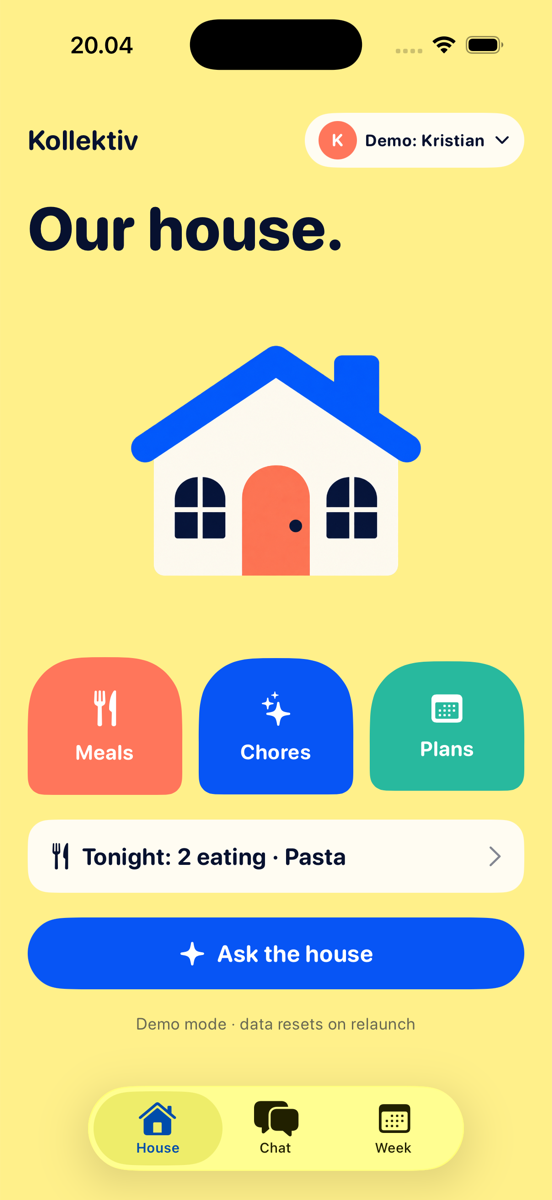
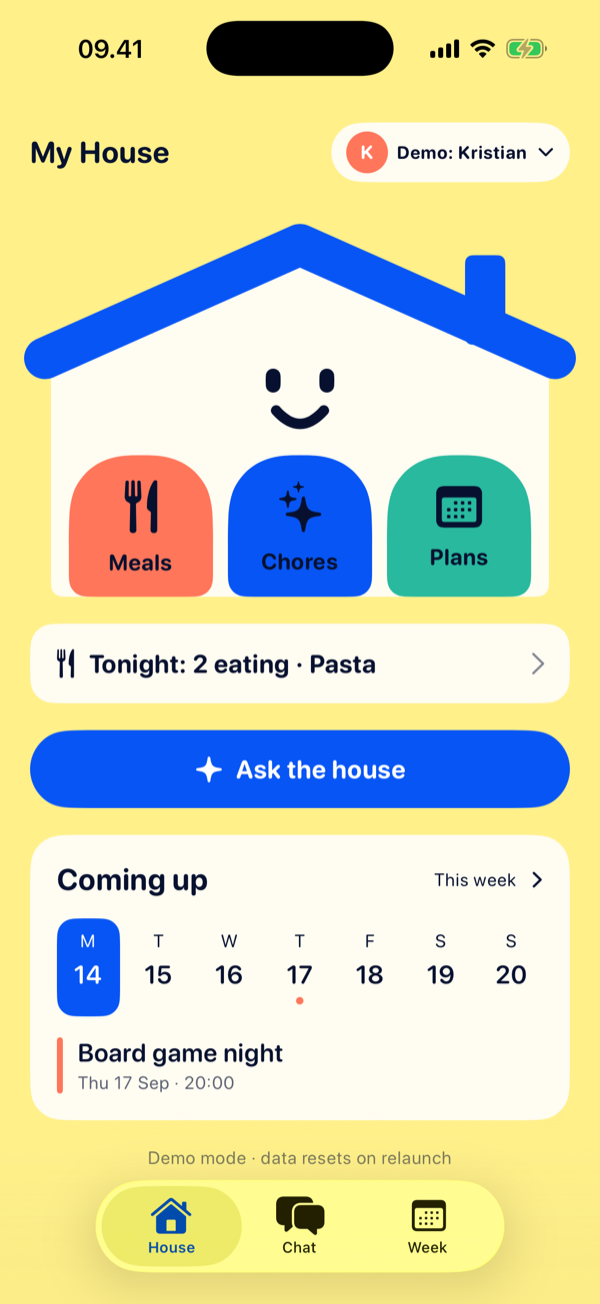
feat(demo): add launch-argument screenshot scenarios and capture README gallery

diff --git a/ios/Kollektiv/App/ScreenshotScenario.swift b/ios/Kollektiv/App/ScreenshotScenario.swift
@@ -1,0 +1,110 @@
+import Foundation
+
+/// Launch-argument driven demo state, used only to capture README screenshots.
+/// Inert unless one of the recognised arguments is present.
+///
+///   -scenario journeyA-pending|journeyA-accepted|journeyC
+///   -tab house|chat|week   -person kristian|sam|mia   -sheet today   -chores
+@MainActor
+enum ScreenshotScenario {
+    private static func value(_ flag: String) -> String? {
+        let args = CommandLine.arguments
+        guard let i = args.firstIndex(of: flag), i + 1 < args.count else { return nil }
+        return args[i + 1]
+    }
+    private static func has(_ flag: String) -> Bool { CommandLine.arguments.contains(flag) }
+
+    private static func monthName(_ date: LocalDate) -> String {
+        let f = DateFormatter()
+        f.calendar = LocalDate.calendar; f.timeZone = LocalDate.timeZone
+        f.locale = LocalDate.calendar.locale; f.dateFormat = "MMMM"
+        return f.string(from: date.noon)
+    }
+
+    /// Upcoming date with the given Foundation weekday (1 = Sunday ... 7 = Saturday).
+    private static func upcoming(_ weekday: Int, from today: LocalDate, strictlyAfter: Bool = false) -> LocalDate {
+        var offset = (weekday - today.weekday + 7) % 7
+        if offset == 0 && strictlyAfter { offset = 7 }
+        return today.adding(days: offset)
+    }
+
+    static func apply(store: HouseStore, appState: AppState) {
+        let scenario = value("-scenario")
+        let tab = value("-tab")
+        let person = value("-person")
+        guard scenario != nil || tab != nil || person != nil || has("-sheet") || has("-chores") else { return }
+
+        store.currentMemberID = person ?? (scenario == "journeyC" ? "kristian" : scenario != nil ? "sam" : store.currentMemberID)
+        switch tab {
+        case "chat": appState.selectedTab = .chat
+        case "week": appState.selectedTab = .week
+        case "house": appState.selectedTab = .house
+        default: break
+        }
+        // Posted after launch so the chat's scroll-to-latest fires and the sheet/push have a
+        // live view hierarchy to attach to.
+        let wantsSheet = value("-sheet") == "today", wantsChores = has("-chores")
+        DispatchQueue.main.asyncAfter(deadline: .now() + 0.5) {
+            switch scenario {
+            case "journeyA-pending": journeyA(store: store, accepted: false)
+            case "journeyA-accepted": journeyA(store: store, accepted: true)
+            case "journeyC": journeyC(store: store)
+            default: break
+            }
+            DispatchQueue.main.asyncAfter(deadline: .now() + 0.4) {
+                if wantsSheet { appState.presentedDinnerDate = store.today }
+                if wantsChores { appState.showChores = true }
+            }
+        }
+    }
+
+    private static func journeyA(store: HouseStore, accepted: Bool) {
+        let today = store.today
+        let friday = upcoming(6, from: today)
+        let saturday = friday.adding(days: 1), sunday = friday.adding(days: 2)
+        guard let kitchen = store.occurrences.first(where: { $0.name == "Kitchen" && $0.date == saturday }) else { return }
+        let source = store.postMessage(
+            sender: .member("kristian"),
+            body: "@House mark me away for dinner Fri–Sun and ask someone to take my Saturday kitchen clean",
+            mentionsHouse: true)
+        let task = store.createTask(initiator: "kristian", sourceMessageID: source.id)
+        do {
+            try store.setAttendance(actor: "kristian", dates: [friday, saturday, sunday], status: .away)
+            let proposal = try store.createCoverProposal(actor: "kristian", occurrenceID: kitchen.id, taskID: task.id)
+            let month = monthName(saturday)
+            store.postMessage(sender: .house, body: """
+            You're marked away for dinner Friday \(friday.day), Saturday \(saturday.day) and Sunday \(sunday.day) \(month). \
+            A cover request has been posted for your Saturday \(saturday.day) \(month) kitchen chore — it's still yours \
+            until Sam or Mia volunteers to take it.
+            """, taskID: task.id)
+            store.updateTask(task.id) { $0.state = .waitingForVolunteer; $0.proposalID = proposal.id }
+            guard accepted else { return }
+            try store.acceptCover(actor: "sam", proposalID: proposal.id, expectedRevision: proposal.revision)
+            store.postMessage(sender: .house, body: "Kitchen on Saturday \(saturday.day) \(month) → Sam. Chore schedule updated.")
+            store.updateTask(task.id) { $0.state = .completed }
+        } catch {
+            // Screenshot mode only: a half-applied scenario is better than a crash.
+        }
+    }
+
+    private static func journeyC(store: HouseStore) {
+        let today = store.today
+        let thursday = upcoming(5, from: today, strictlyAfter: true)
+        let month = monthName(thursday)
+        let first = store.postMessage(sender: .member("kristian"), body: "@House I'll cook vegetable curry on Thursday", mentionsHouse: true)
+        let task1 = store.createTask(initiator: "kristian", sourceMessageID: first.id)
+        try? store.volunteerToCook(actor: "kristian", date: thursday, dish: "Vegetable curry", time: nil)
+        store.postMessage(sender: .house, body: """
+        You're set to cook vegetable curry on Thursday \(thursday.day) \(month). Note there's also Board game night \
+        that evening at 20:00, so good timing for a shared meal.
+        """, taskID: task1.id)
+        store.updateTask(task1.id) { $0.state = .completed }
+
+        let second = store.postMessage(sender: .member("kristian"), body: "@House who's eating Thursday?", mentionsHouse: true)
+        let task2 = store.createTask(initiator: "kristian", sourceMessageID: second.id)
+        store.postMessage(sender: .house, body: """
+        For Thursday \(thursday.day) \(month), nobody has responded yet — Kristian, Sam, and Mia are all "Not answered."
+        """, taskID: task2.id)
+        store.updateTask(task2.id) { $0.state = .completed }
+    }
+}

diff --git a/ios/Kollektiv/App/KollektivApp.swift b/ios/Kollektiv/App/KollektivApp.swift
@@ -4,12 +4,16 @@ import SwiftUI
 struct KollektivApp: App {
     @State private var store: HouseStore
     @State private var runner: AgentRunner
-    @State private var appState = AppState()
+    @State private var appState: AppState
 
     init() {
         let store = HouseStore()
         _store = State(initialValue: store)
         _runner = State(initialValue: AgentRunner(store: store))
+        let appState = AppState()
+        _appState = State(initialValue: appState)
+        // No-op unless the screenshot launch arguments are present.
+        ScreenshotScenario.apply(store: store, appState: appState)
     }
 
     var body: some Scene {
